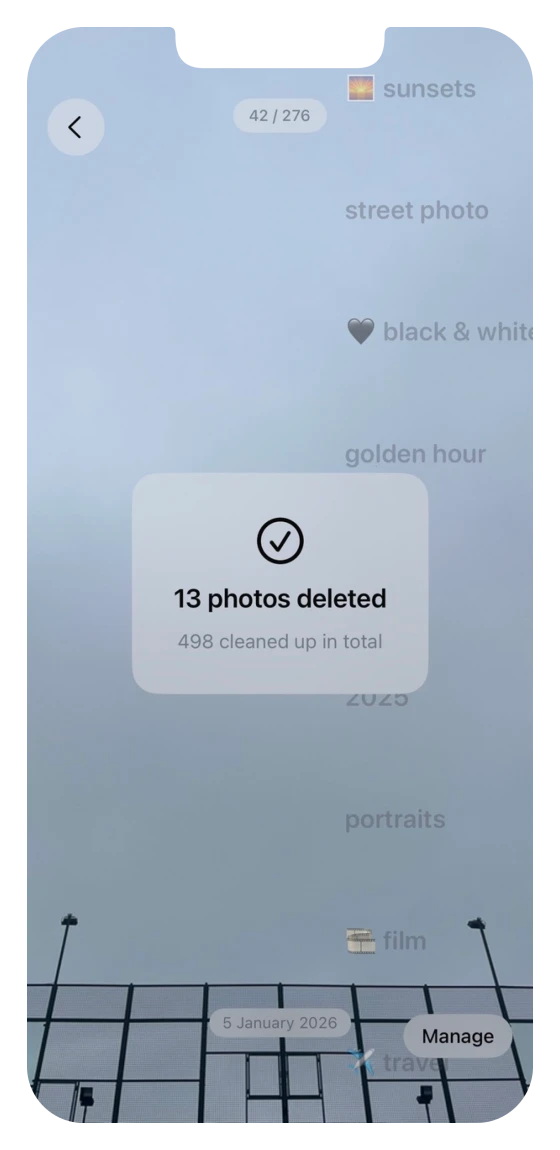
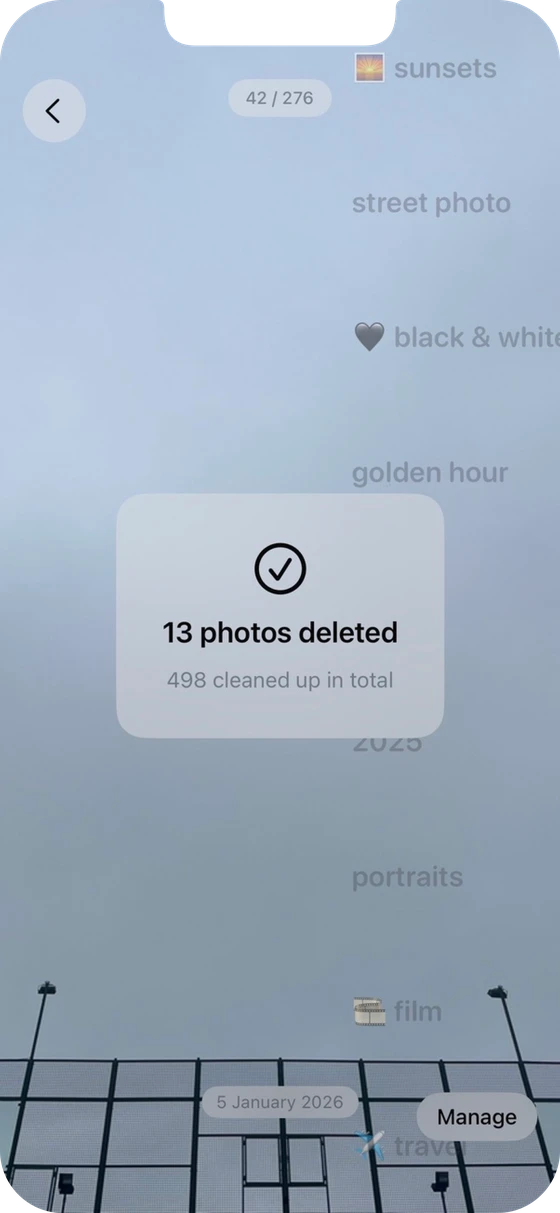
fix: match Culla's deleted-view shot height to the first device shot
Crop the transparent margin off the mockup and size to 560x1213 so both
device screenshots in the row stand the same height.

diff --git a/index.html b/index.html
@@ -66,7 +66,7 @@
         <article class="app-card">
           <div class="app-shots">
             <img class="app-shot app-shot--device" src="/screens/culla/datepicker.webp" width="560" height="1213" loading="lazy" alt="Culla — date picker over a photo mosaic">
-            <img class="app-shot app-shot--device" src="/screens/culla/deletedview.webp" width="560" height="1150" loading="lazy" alt="Culla — clean-up confirmation: 13 photos deleted, 498 cleaned up in total">
+            <img class="app-shot app-shot--device" src="/screens/culla/deletedview.webp" width="560" height="1213" loading="lazy" alt="Culla — clean-up confirmation: 13 photos deleted, 498 cleaned up in total">
           </div>
           <div class="app-meta">
             <h3 class="app-name">Culla</h3>